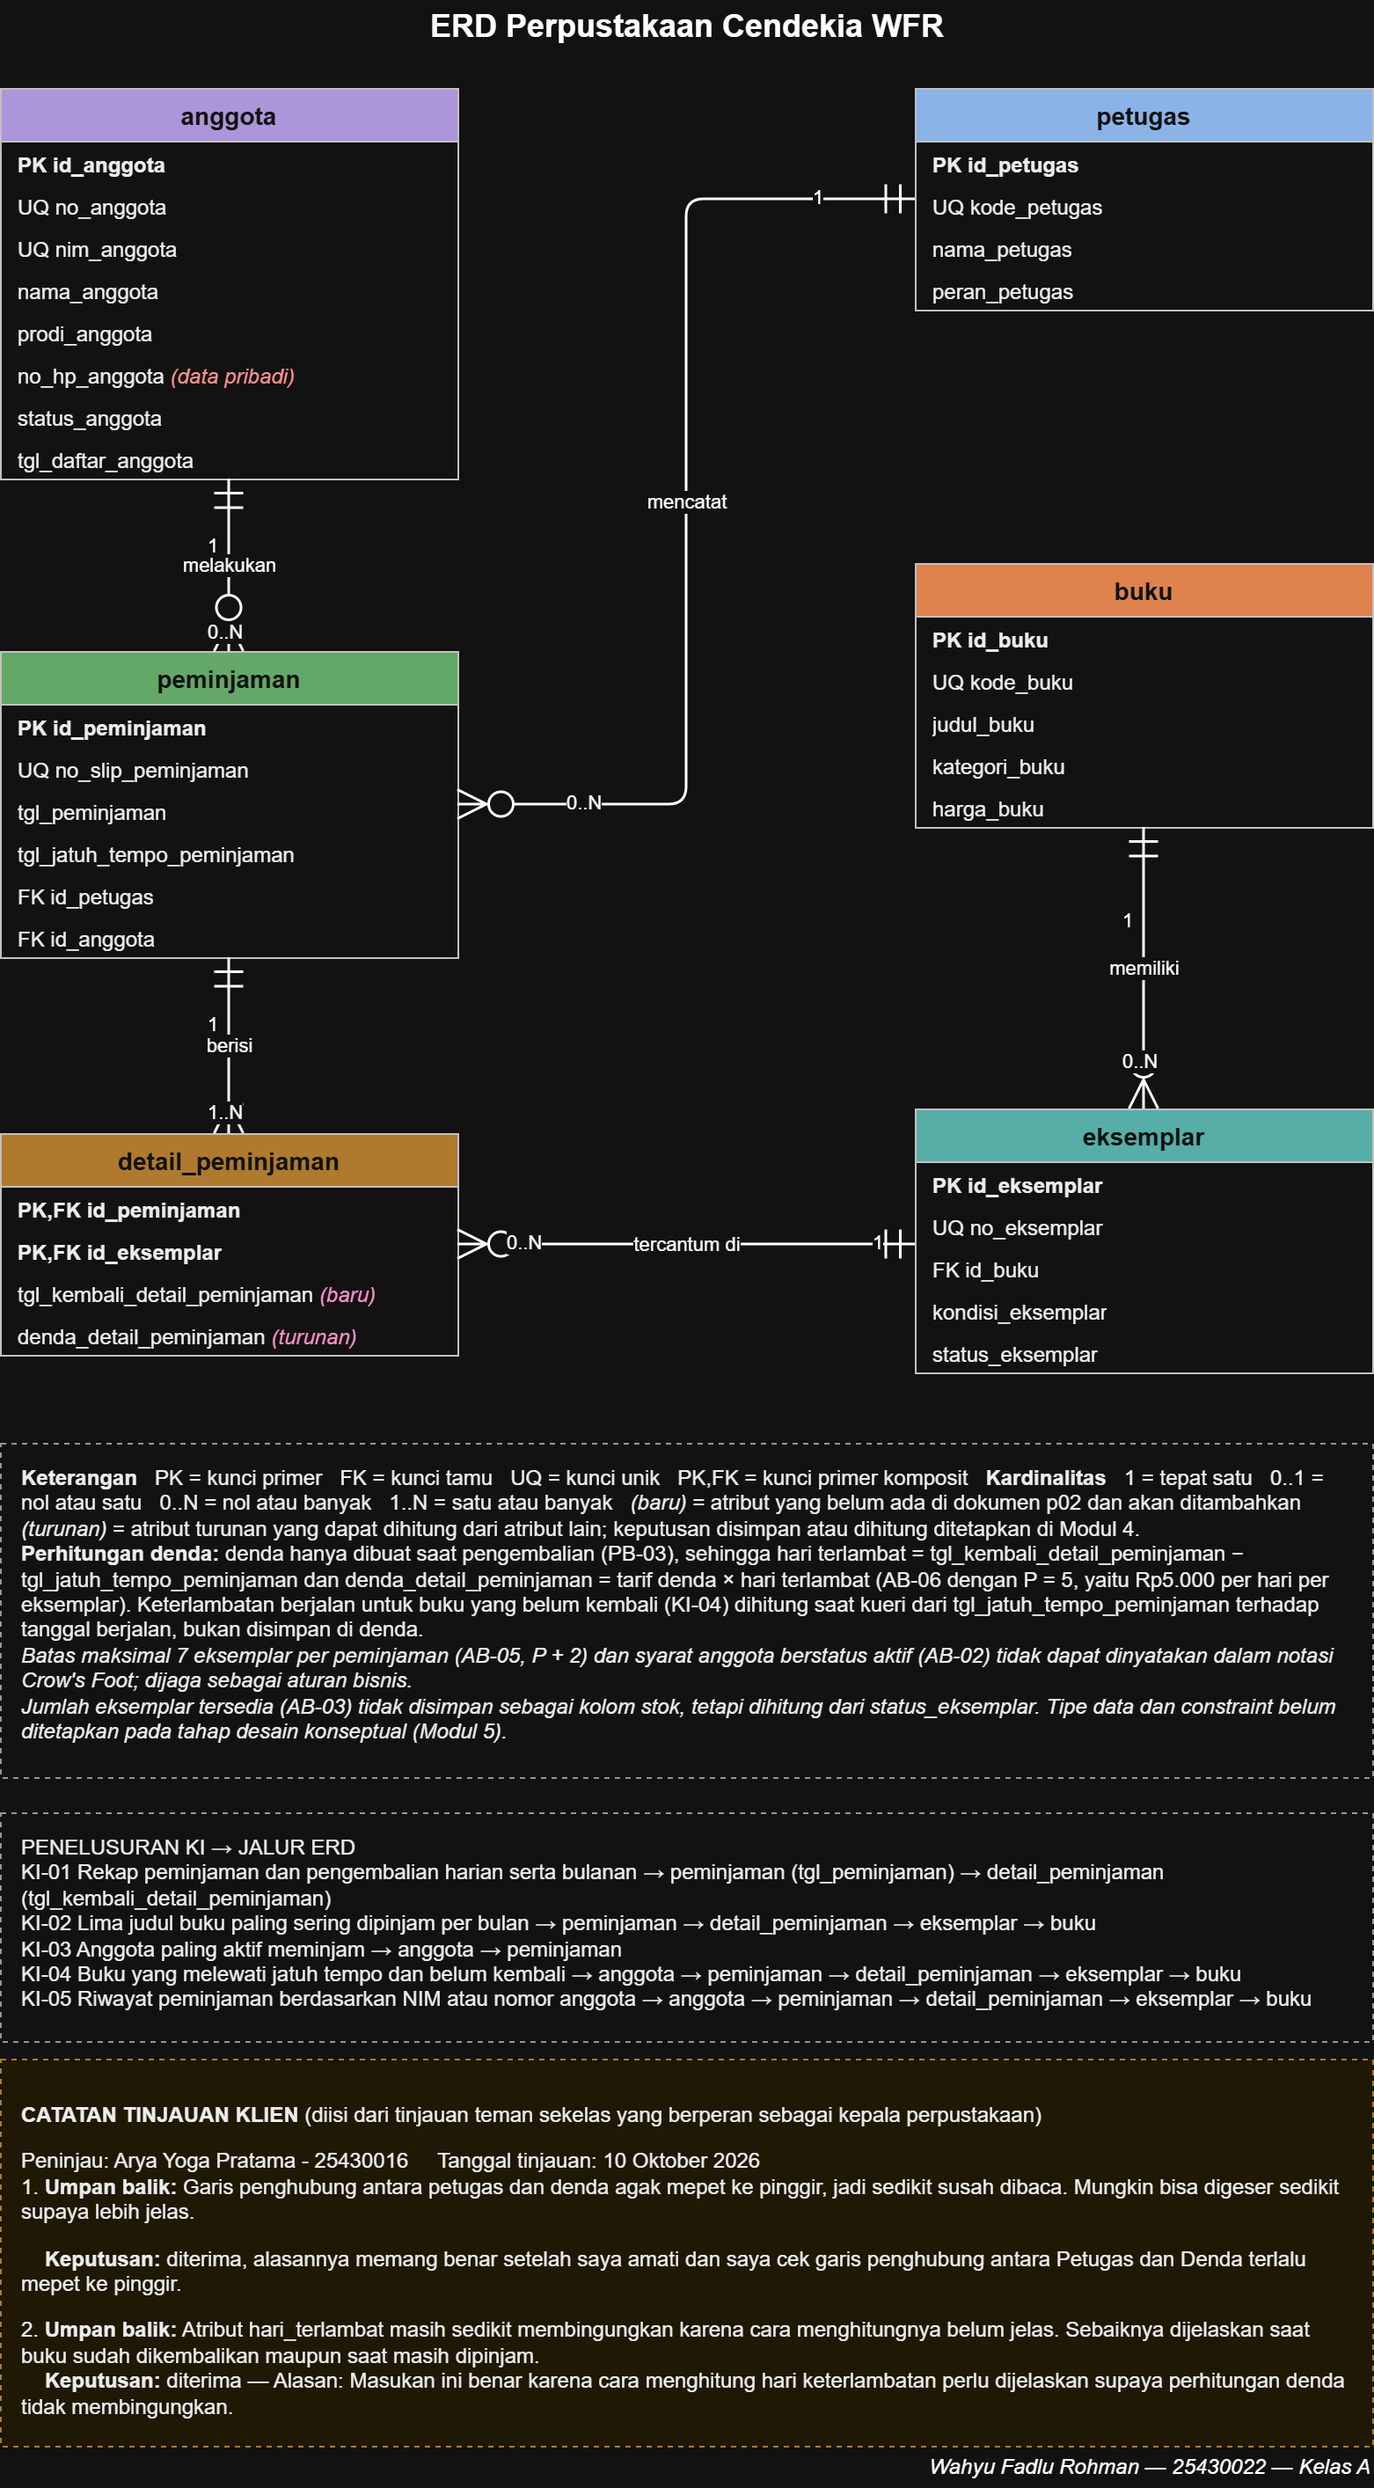
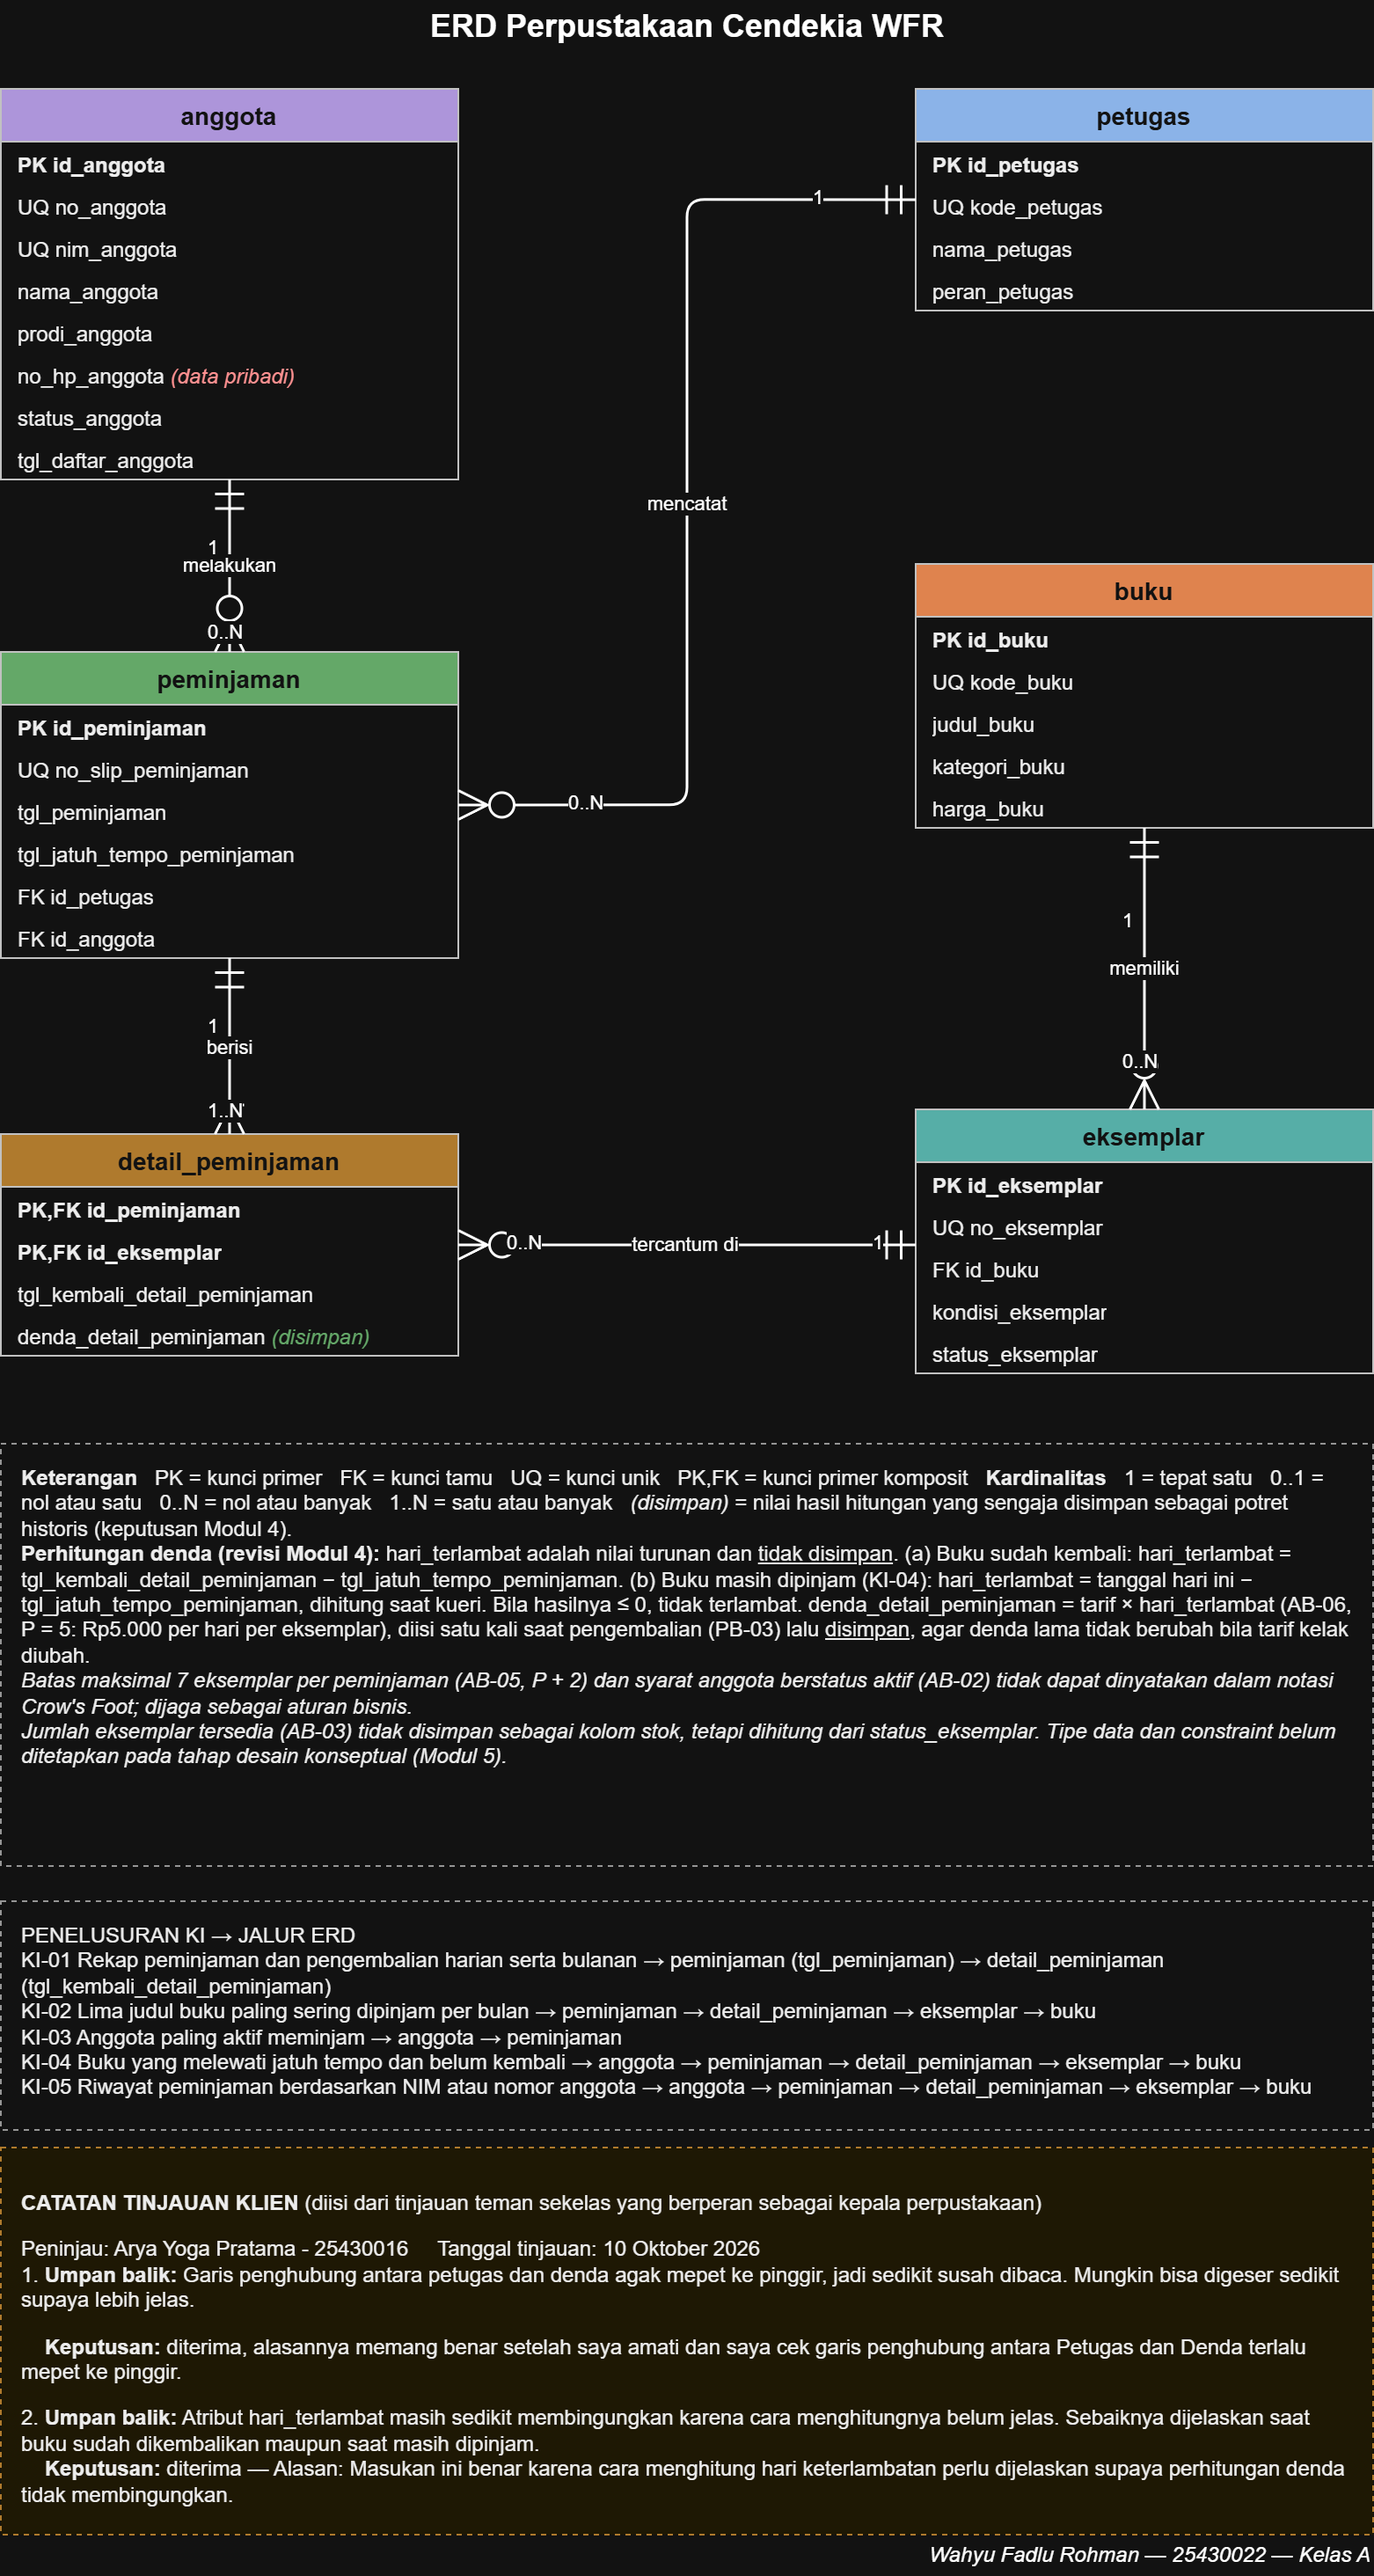
p04: milestone proyek 4 normalisasi

diff --git a/laporan/p04_normalisasi_25430022.md b/laporan/p04_normalisasi_25430022.md
@@ -1,0 +1,158 @@
+# Normalisasi Proyek Perpustakaan Cendekia WFR - 25430022
+
+**Nama:** Wahyu Fadlu Rohman  **NIM:** 25430022  **Tema:** Perpustakaan (perpus)  **Parameter P:** 5
+
+## 1. Dokumen Sumber
+Dokumen yang dijadikan titik awal UNF adalah **Slip Peminjaman Buku** (p02 bagian 3), karena satu slip memuat data kepala transaksi (slip, anggota, petugas) sekaligus daftar eksemplar yang berulang.
+
+Contoh isi slip yang dicatat apa adanya dalam satu tabel (cara lama, sebelum dinormalisasi):
+
+| no_slip | tgl_pinjam | jatuh_tempo | petugas | no_anggota | nama_anggota | no_eksemplar | judul_buku | tgl_kembali | denda |
+|---|---|---|---|---|---|---|---|---|---|
+| SL-2610-0012 | 10-10-2026 | 17-10-2026 | Sari | A-0123 | Rian Pratama | EKS-0101 | Algoritma Pemrograman | 17-10-2026 | 0 |
+| SL-2610-0012 | 10-10-2026 | 17-10-2026 | Sari | A-0123 | Rian Pratama | EKS-0205 | Basis Data Lanjut | 19-10-2026 | 10000 |
+| SL-2610-0019 | 12-10-2026 | 19-10-2026 | Sari | A-0123 | **Rian P.** | EKS-0310 | **Struktur Data** | - | - |
+| SL-2610-0021 | 13-10-2026 | 20-10-2026 | Dodi | A-0150 | Nisa Aulia | EKS-0102 | **Algoritma Pemrog.** | - | - |
+
+## 2. Anomali yang Ditemukan
+- **Anomali ubah:** nama anggota A-0123 tertulis "Rian Pratama" dan "Rian P."; judul buku yang sama tertulis "Algoritma Pemrograman" dan "Algoritma Pemrog.". Satu fakta tersimpan di banyak baris sehingga bisa tidak konsisten (melanggar AB-07).
+- **Anomali sisip:** eksemplar baru hasil pengadaan (PB-04) dan anggota baru (PB-01) tidak dapat dicatat sebelum ada slip peminjaman yang memuatnya.
+- **Anomali hapus:** jika slip SL-2610-0019 dihapus, informasi bahwa eksemplar EKS-0310 adalah buku "Struktur Data" ikut hilang, karena hanya tercatat di slip tersebut.
+
+## 3. UNF
+Satu slip menyimpan grup berulang eksemplar yang dipinjam:
+
+```
+SLIP_UNF (no_slip_peminjaman, tgl_peminjaman, tgl_jatuh_tempo_peminjaman,
+          kode_petugas, nama_petugas, peran_petugas,
+          no_anggota, nim_anggota, nama_anggota, prodi_anggota, no_hp_anggota, status_anggota,
+          { no_eksemplar, kondisi_eksemplar, status_eksemplar,
+            kode_buku, judul_buku, kategori_buku, harga_buku,
+            tgl_kembali_detail_peminjaman, hari_terlambat, denda_detail_peminjaman },
+          total_eksemplar, total_denda)
+```
+
+## 4. 1NF
+Grup berulang dihilangkan: **satu baris untuk setiap eksemplar di setiap slip**. Karena yang dipinjam adalah unit fisik (satu baris = satu eksemplar), tidak diperlukan kolom qty.
+
+Kunci primer komposit: **(no_slip_peminjaman, no_eksemplar)**
+
+```
+SLIP_1NF (no_slip_peminjaman, no_eksemplar,
+          tgl_peminjaman, tgl_jatuh_tempo_peminjaman,
+          kode_petugas, nama_petugas, peran_petugas,
+          no_anggota, nim_anggota, nama_anggota, prodi_anggota, no_hp_anggota, status_anggota,
+          kondisi_eksemplar, status_eksemplar,
+          kode_buku, judul_buku, kategori_buku, harga_buku,
+          tgl_kembali_detail_peminjaman, hari_terlambat, denda_detail_peminjaman,
+          total_eksemplar, total_denda)
+```
+
+## 5. Dependensi Fungsional
+Diturunkan dari aturan bisnis p02, bukan dari contoh data.
+
+| Kode | Dependensi fungsional | Dasar |
+|---|---|---|
+| FD1 | no_slip_peminjaman → tgl_peminjaman, tgl_jatuh_tempo_peminjaman, kode_petugas, no_anggota | AB-01 (nomor slip unik) |
+| FD2 | kode_petugas → nama_petugas, peran_petugas | AB-07 (data master petugas tunggal) |
+| FD3 | no_anggota → nim_anggota, nama_anggota, prodi_anggota, no_hp_anggota, status_anggota | AB-07 (data master anggota tunggal), AB-02 |
+| FD4 | nim_anggota → no_anggota | AB-04 (NIM unik) |
+| FD5 | no_eksemplar → kode_buku, kondisi_eksemplar, status_eksemplar | AB-08, PB-04 (satu label = satu unit fisik) |
+| FD6 | kode_buku → judul_buku, kategori_buku, harga_buku | PB-04 (katalog), AB-07 |
+| FD7 | (no_slip_peminjaman, no_eksemplar) → tgl_kembali_detail_peminjaman, denda_detail_peminjaman | AB-06 (denda per eksemplar) |
+| FD8 | tgl_jatuh_tempo_peminjaman, tgl_kembali_detail_peminjaman → hari_terlambat | turunan (AB-06) |
+| FD9 | no_slip_peminjaman → total_eksemplar, total_denda | turunan (hitung baris detail) |
+
+Catatan FD:
+- **FD4** membuat nim_anggota menjadi kunci kandidat kedua di samping no_anggota.
+- **FD7:** denda diletakkan pada kunci komposit, bukan pada no_slip saja, karena AB-06 menghitung denda **per eksemplar**. Dua eksemplar di slip yang sama bisa dikembalikan pada tanggal berbeda sehingga dendanya berbeda (contoh: EKS-0101 denda 0, EKS-0205 denda Rp10.000).
+- Tidak ditulis `kode_buku → harga` sebagai dasar denda. Tarif denda berasal dari AB-06 (P = 5, yaitu Rp5.000 per hari per eksemplar), bukan dari harga buku.
+
+## 6. 2NF
+Atribut yang hanya bergantung pada **sebagian** kunci komposit dipisahkan:
+- FD1 (cukup no_slip_peminjaman) → relasi **PEMINJAMAN**
+- FD5 (cukup no_eksemplar) → relasi **EKSEMPLAR**
+- Sisanya (FD7, bergantung pada kunci penuh) → **DETAIL_PEMINJAMAN**
+
+```
+PEMINJAMAN (no_slip_peminjaman, tgl_peminjaman, tgl_jatuh_tempo_peminjaman,
+            kode_petugas, nama_petugas, peran_petugas,
+            no_anggota, nim_anggota, nama_anggota, prodi_anggota, no_hp_anggota, status_anggota)
+
+EKSEMPLAR (no_eksemplar, kondisi_eksemplar, status_eksemplar,
+           kode_buku, judul_buku, kategori_buku, harga_buku)
+
+DETAIL_PEMINJAMAN (no_slip_peminjaman, no_eksemplar,
+                   tgl_kembali_detail_peminjaman, denda_detail_peminjaman)
+```
+
+## 7. 3NF
+Masih ada ketergantungan transitif (rantai A → B → C) di dalam satu relasi:
+- PEMINJAMAN: no_slip_peminjaman → kode_petugas → nama_petugas, sehingga **PETUGAS** dipisah
+- PEMINJAMAN: no_slip_peminjaman → no_anggota → nama_anggota, sehingga **ANGGOTA** dipisah
+- EKSEMPLAR: no_eksemplar → kode_buku → judul_buku, sehingga **BUKU** dipisah
+
+Hasil akhir 3NF (**tebal** = kunci primer, `*` = kunci tamu):
+
+- ANGGOTA (**no_anggota**, nim_anggota, nama_anggota, prodi_anggota, no_hp_anggota, status_anggota, tgl_daftar_anggota)
+- PETUGAS (**kode_petugas**, nama_petugas, peran_petugas)
+- BUKU (**kode_buku**, judul_buku, kategori_buku, harga_buku)
+- EKSEMPLAR (**no_eksemplar**, kode_buku*, kondisi_eksemplar, status_eksemplar)
+- PEMINJAMAN (**no_slip_peminjaman**, tgl_peminjaman, tgl_jatuh_tempo_peminjaman, kode_petugas*, no_anggota*)
+- DETAIL_PEMINJAMAN (**no_slip_peminjaman\*, no_eksemplar\***, tgl_kembali_detail_peminjaman, denda_detail_peminjaman)
+
+Hasil ini menghilangkan ketiga anomali di bagian 2:
+- nama anggota dan judul buku tersimpan satu kali (anomali ubah hilang);
+- eksemplar dan anggota baru dapat dicatat tanpa slip (anomali sisip hilang);
+- menghapus slip tidak menghapus data eksemplar atau buku (anomali hapus hilang).
+
+## 8. Pemeriksaan BCNF
+Syarat BCNF: setiap penentu adalah kunci kandidat.
+
+| Tabel | Penentu | Kunci kandidat? | BCNF |
+|---|---|---|---|
+| anggota | no_anggota, nim_anggota | Ya, keduanya unik (AB-04, kamus data) | ✔ |
+| petugas | kode_petugas | Ya | ✔ |
+| buku | kode_buku | Ya | ✔ |
+| eksemplar | no_eksemplar | Ya | ✔ |
+| peminjaman | no_slip_peminjaman | Ya (AB-01) | ✔ |
+| detail_peminjaman | (no_slip_peminjaman, no_eksemplar) | Ya | ✔ |
+
+Semua tabel memenuhi BCNF. Penentu nim_anggota pada tabel anggota tidak melanggar BCNF karena nim_anggota adalah kunci kandidat (AB-04).
+
+## 9. Keputusan Nilai Turunan
+
+| Nilai | Keputusan | Alasan |
+|---|---|---|
+| total_eksemplar | **Dihitung** | Sama dengan jumlah baris detail per slip (COUNT). Kalau disimpan, bisa tidak cocok dengan isi detail. Batas maksimal 7 eksemplar (AB-05) diperiksa dari hitungan ini. |
+| jumlah eksemplar tersedia per buku | **Dihitung** | Dihitung dari eksemplar dengan status_eksemplar = 'tersedia'. Tidak ada kolom stok, sehingga hasilnya tidak mungkin negatif (AB-03 terpenuhi otomatis). |
+| hari_terlambat | **Dihitung** | Selisih tgl_kembali_detail_peminjaman dan tgl_jatuh_tempo_peminjaman. Untuk buku yang belum kembali (KI-04), dihitung terhadap tanggal hari ini saat kueri. |
+| total_denda per slip | **Dihitung** | Penjumlahan denda_detail_peminjaman pada slip tersebut. |
+| denda_detail_peminjaman | **Disimpan** | Diisi satu kali saat pengembalian (PB-03) dengan tarif yang berlaku saat itu (AB-06: Rp5.000 per hari per eksemplar). Denda yang sudah ditetapkan adalah **potret historis** dan tidak boleh berubah walaupun tarif kelak diubah. Ini sama dengan alasan harga satuan pada nota Kopma (AB-04 Kopma). |
+| tgl_jatuh_tempo_peminjaman | **Disimpan** | Saat ini sama dengan tgl_peminjaman + 7 hari. Tetapi lama pinjam adalah kebijakan yang bisa berubah, dan batas yang sudah tertulis di slip anggota tidak boleh ikut berubah. |
+
+Catatan: denda_detail_peminjaman tidak melanggar 3NF. Nilainya tidak ditentukan oleh kolom lain di tabel yang sama, karena juga bergantung pada tarif yang berlaku saat pengembalian. Nilai itu adalah fakta yang ditetapkan pada saat pengembalian untuk pasangan (slip, eksemplar).
+
+## 10. Skema Relasional Akhir (dengan kunci pengganti)
+Mengikuti pola skema kanonik buku: kunci pengganti `id_*` menjadi kunci primer, sedangkan kode alami menjadi kunci unik.
+
+| Tabel | Kunci primer | Kunci unik | Kunci tamu |
+|---|---|---|---|
+| anggota | id_anggota | no_anggota, nim_anggota | - |
+| petugas | id_petugas | kode_petugas | - |
+| buku | id_buku | kode_buku | - |
+| eksemplar | id_eksemplar | no_eksemplar | id_buku |
+| peminjaman | id_peminjaman | no_slip_peminjaman | id_anggota, id_petugas |
+| detail_peminjaman | (id_peminjaman, id_eksemplar) | - | id_peminjaman, id_eksemplar |
+
+Kunci pengganti tidak menggantikan pemeriksaan normalisasi. Dependensi tetap diperiksa dengan kunci alami (bagian 5 dan 8).
+
+## 11. Perubahan terhadap ERD dan p02
+Hasil normalisasi menghasilkan 6 tabel yang sama dengan 6 entitas ERD Modul 3, jadi tidak ada entitas yang ditambah atau dihapus. Perubahan yang dicatat:
+
+1. **denda_detail_peminjaman:** di ERD Modul 3 ditandai sebagai atribut turunan. Sekarang diputuskan **disimpan** (bagian 9), jadi tanda "turunan" pada ERD dihapus.
+2. **hari_terlambat:** ditegaskan sebagai nilai turunan yang tidak disimpan. Cara hitungnya dicatat di legenda ERD sesuai masukan tinjauan klien Modul 3.
+3. **tgl_kembali_detail_peminjaman** ditambahkan ke kamus data p02 bagian 8.
+4. **Matriks CRUD p02:** PB-03 terhadap Detail Peminjaman diubah dari R menjadi **U**, karena pengembalian mengisi tgl_kembali dan denda.
+5. **qty_peminjaman dan total_eksemplar** di p02 tidak menjadi kolom, karena digantikan oleh jumlah baris detail_peminjaman.
+6. **Penamaan kolom:** `tgl_jatuh_tempo` di p02 diganti menjadi `tgl_jatuh_tempo_peminjaman` agar sesuai standar penamaan buku (akhiran nama tabel) dan sama dengan ERD.
